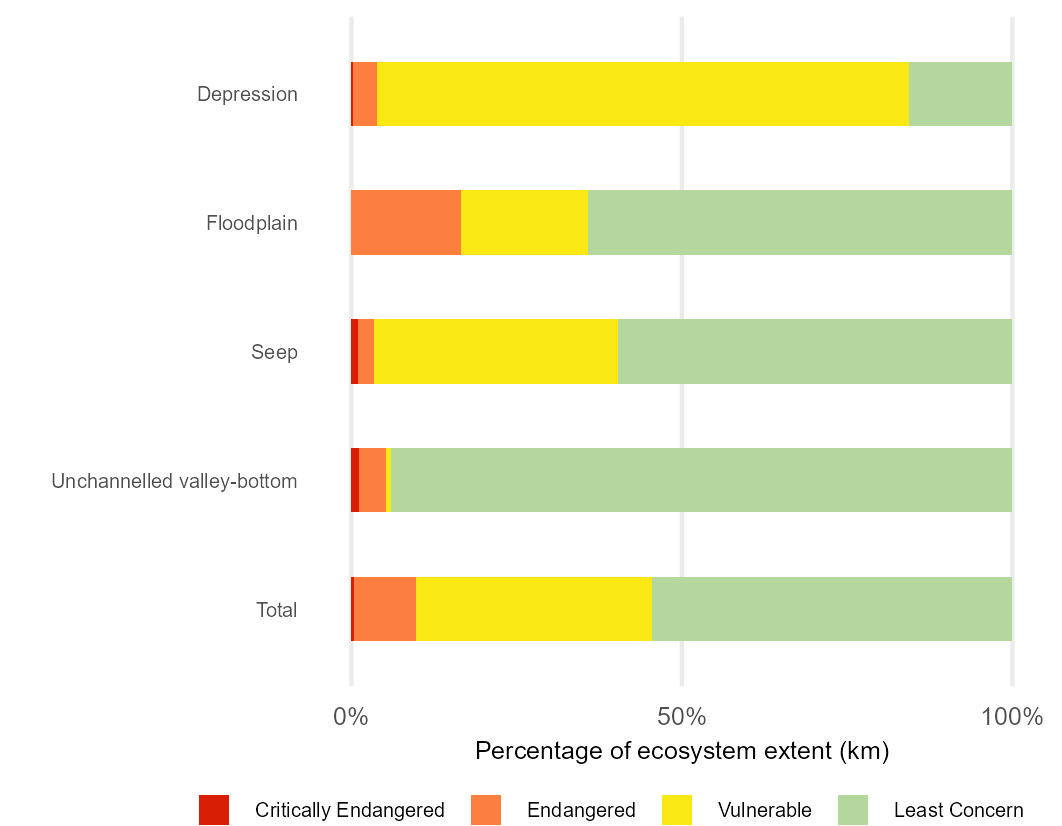
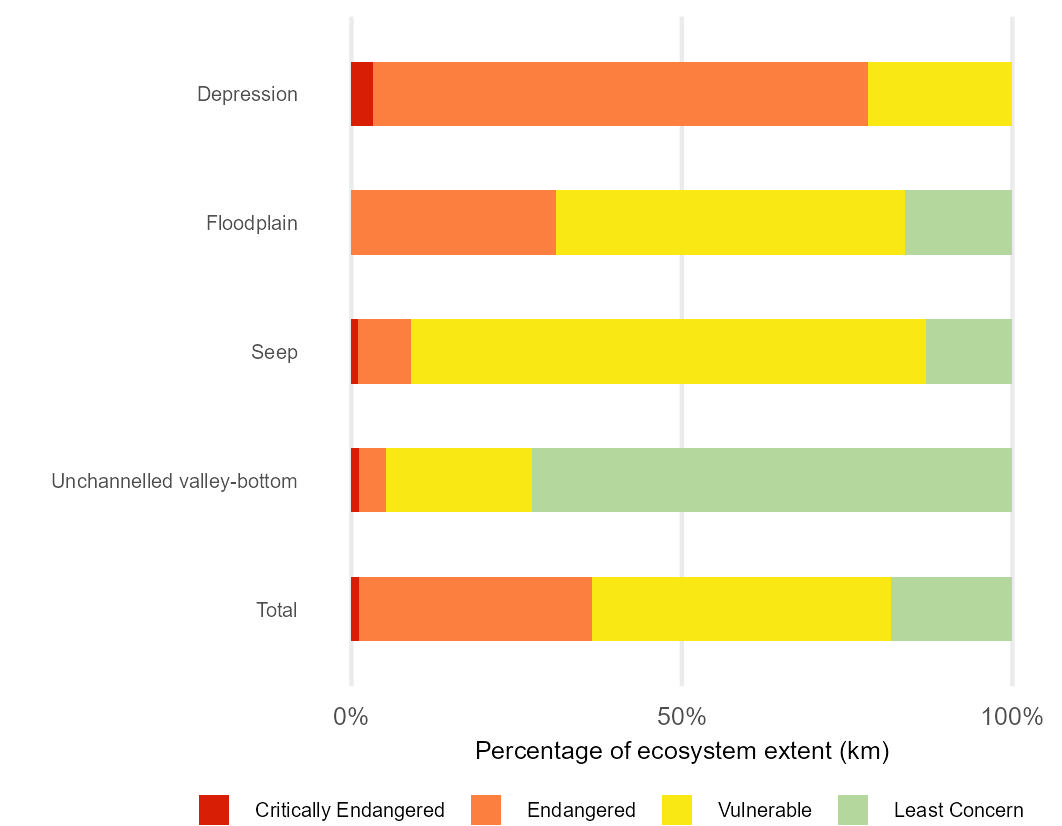
Adjust D3 - make PES def = 90% disruption

diff --git a/README.md b/README.md
@@ -44,7 +44,7 @@ For consistency with past assessments the South African Ecosystem Threat Status 
 
 #### **Results:**
 
-Note: An error in the RLE_wet.qmd (line 279) was uncovered in March 2026, this line incorrectly calculated the decline in condition (PES), this repo contains the corrected outputs
+Note: An error in the RLE_wet.qmd (line 279) was uncovered in March 2026, this line incorrectly calculated the decline in condition (PES) used in criterion D2. The code for Criterion D3 was also adjusted to set PES condition of DEF as 90% biotic disruption (previously PES condition EF was considered 90% disruption). This repo contains the corrected outputs. Original outputs can be found at version 1.0.0 tag.
 
 The assessment results per inland wetland ecosystem type for both the IUCN RLE and South African ETS are presented here [rle_wet_metrics_per_type.csv](outputs/rle_wet_metrics_per_type.csv)
 
@@ -53,7 +53,7 @@ Summary table - count of wetland ecosystem types per HGM zone per IUCN RLE categ
 Summary table - count of wetland ecosystem types per HGM zone per South African ETS category [rle24sa_wet_count.csv](outputs/rle24sa_wet_count.csv)
 
 | RLE 2024 - count of types | RLE 2024 - extent of types |
-|----|----|
+|------------------------------------|------------------------------------|
 | ![](outputs/rle24_wet_barplot_count.jpeg) | ![](outputs/rle24_wet_barplot_ext.jpeg) |
 | South African ETS 2024 (count) | South African ETS 2024 (extent) |
 | ![](outputs/rle24sa_wet_barplot_count.jpeg) | ![](outputs/rle24sa_wet_barplot_ext.jpeg) |
@@ -63,7 +63,7 @@ Summary table - count of wetland ecosystem types per HGM zone per South African 
 Reflecting changes in RLE between 2018 and 2024 - This shows PES scores increased between 2018 and 2024
 
 | RLIe based on IUCN RLE framework | RLIe based on South African ETS framework |
-|----|----|
+|------------------------------------|------------------------------------|
 | ![](outputs/rlie_plot.jpeg) | ![](outputs/rliesa_plot.jpeg) |
 
 **Combined RLE and EPL results**
